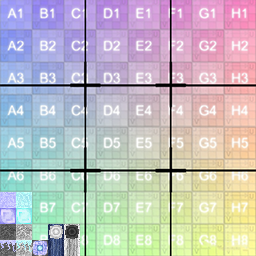
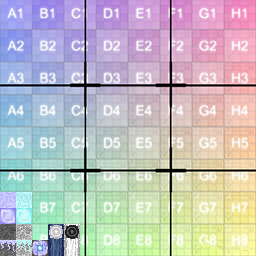
tree map

Changed region(s): [[0.25, 0.875, 0.3125, 1.0]]

diff --git a/MinecraftClone/world_data_utils.cpp b/MinecraftClone/world_data_utils.cpp
@@ -1,6 +1,6 @@
 #include "world_data_utils.h"
 
-bool fillChunkData(std::unordered_map<glm::ivec3, Chunk*, ivec3hash>& chunks, const int chunkSize, const glm::ivec3& chunkPos) {
+bool fillChunkDataRandom(std::unordered_map<glm::ivec3, Chunk*, ivec3hash>& chunks, const int chunkSize, const glm::ivec3& chunkPos) {
 	if (chunkPos.y != 0)
 		return false;
 
@@ -13,7 +13,37 @@ bool fillChunkData(std::unordered_map<glm::ivec3, Chunk*, ivec3hash>& chunks, co
 					chunks[chunkPos]->blocks[blockPos] = BlockType::DIRT;
 				}
 				else if (randomInclusive(0, 1) != 0) {
-					chunks[chunkPos]->blocks[blockPos] = static_cast<BlockType>(randomInclusive(0, BlockType::LOG));
+					chunks[chunkPos]->blocks[blockPos] = static_cast<BlockType>(randomInclusive(0, BlockType::GHOST_LOG));
+				}
+			}
+		}
+	}
+
+	return true;
+}
+
+bool fillChunkDataForest(std::unordered_map<glm::ivec3, Chunk*, ivec3hash>& chunks, const int chunkSize, const glm::ivec3& chunkPos) {
+	if (chunkPos.y != 0)
+		return false;
+
+	chunks[chunkPos] = new Chunk{ chunkPos, chunkSize };
+	for (int x = 0; x < chunkSize; ++x) {
+		for (int y = 0; y < 2; ++y) {
+			for (int z = 0; z < chunkSize; ++z) {
+				const glm::ivec3 blockPos = glm::ivec3{ x, y, z } + chunkPos * chunkSize;
+				if (y == 0) {
+					if (randomInclusive(0, 50) == 0) {
+						for (int i = 0; i < chunkSize; i++) {
+							chunks[chunkPos]->blocks[blockPos + glm::ivec3{ 0, i, 0 }] = BlockType::LOG;
+						}
+					}
+					else
+					{
+						chunks[chunkPos]->blocks[blockPos] = BlockType::DIRT;
+					}
+				}
+				else if (randomInclusive(0, 1) != 0) {
+					chunks[chunkPos]->blocks[blockPos] = BlockType::NYCELIUM;
 				}
 			}
 		}

diff --git a/MinecraftClone/world_mesh_utils.cpp b/MinecraftClone/world_mesh_utils.cpp
@@ -171,6 +171,12 @@ Atlas generateAtlas() {
 	atlas.maps[BlockType::LOG].faces[Direction::UP] = tilePositionToUVs(3, 1);
 	atlas.maps[BlockType::LOG].faces[Direction::DOWN] = tilePositionToUVs(3, 1);
 
+	// GHOST LOG. ===
+	atlas.maps[BlockType::GHOST_LOG] = generateEmptyMap();
+	setEquatorUVs(atlas.maps[BlockType::GHOST_LOG], tilePositionToUVs(4, 0));
+	atlas.maps[BlockType::GHOST_LOG].faces[Direction::UP] = tilePositionToUVs(4, 1);
+	atlas.maps[BlockType::GHOST_LOG].faces[Direction::DOWN] = tilePositionToUVs(4, 1);
+
 	// ===
 	atlas.maps[BlockType::DIRT] = generateUniformMap(tilePositionToUVs(0, 1));
 	atlas.maps[BlockType::GRAVEL] = generateUniformMap(tilePositionToUVs(1, 1));

diff --git a/MinecraftClone/world_data_utils.h b/MinecraftClone/world_data_utils.h
@@ -8,5 +8,8 @@
 #include "hashing_utils.h"
 #include <unordered_set>
 
-bool fillChunkData(std::unordered_map<glm::ivec3, Chunk*, ivec3hash>& chunks, 
+bool fillChunkDataRandom(std::unordered_map<glm::ivec3, Chunk*, ivec3hash>& chunks, 
+	const int chunkSize, const glm::ivec3& chunkPos);
+
+bool fillChunkDataForest(std::unordered_map<glm::ivec3, Chunk*, ivec3hash>& chunks,
 	const int chunkSize, const glm::ivec3& chunkPos);

diff --git a/MinecraftClone/World.cpp b/MinecraftClone/World.cpp
@@ -37,7 +37,7 @@ void World::allocateNewChunks(ThreadPool& pool, const glm::vec3& playerPos) {
 					continue;
 
 				// WE NEED TO LOAD A CHUNK IN.
-				auto future = pool.submit(fillChunkData, std::ref(chunks), chunkSize, chunkPos);
+				auto future = pool.submit(fillChunkDataForest, std::ref(chunks), chunkSize, chunkPos);
 				if (future.get())
 					changedChunkPositions.insert(chunkPos);
 			}

diff --git a/MinecraftClone/BlockType.h b/MinecraftClone/BlockType.h
@@ -8,5 +8,6 @@ enum BlockType {
     GRAVEL = 4,
     DIAMOND = 5,
     REACTOR = 6,
-    LOG = 7
+    LOG = 7,
+    GHOST_LOG = 8
 };
